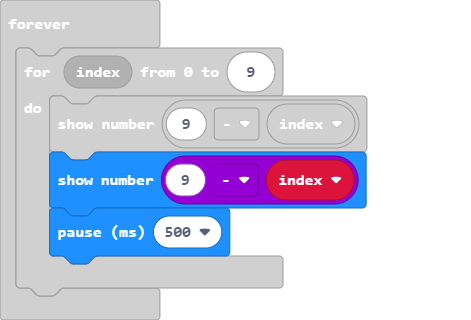
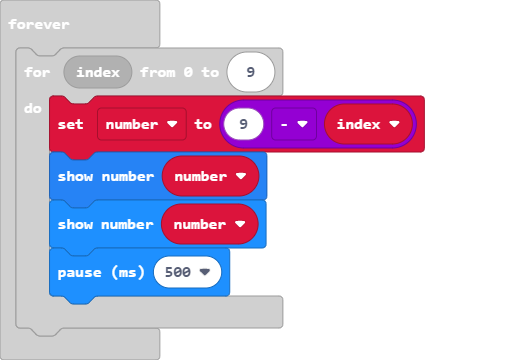
Update main.blocks, main.ts

diff --git a/main.ts b/main.ts
@@ -1,8 +1,10 @@
+let number = 0
 Freenove.Initialization(DigitalPin.P0, DigitalPin.P1, DigitalPin.P2)
 basic.forever(function () {
     for (let index = 0; index <= 9; index++) {
-        Freenove.Show_Number(9 - index)
-        basic.showNumber(9 - index)
+        number = 9 - index
+        Freenove.Show_Number(number)
+        basic.showNumber(number)
         basic.pause(500)
     }
 })
